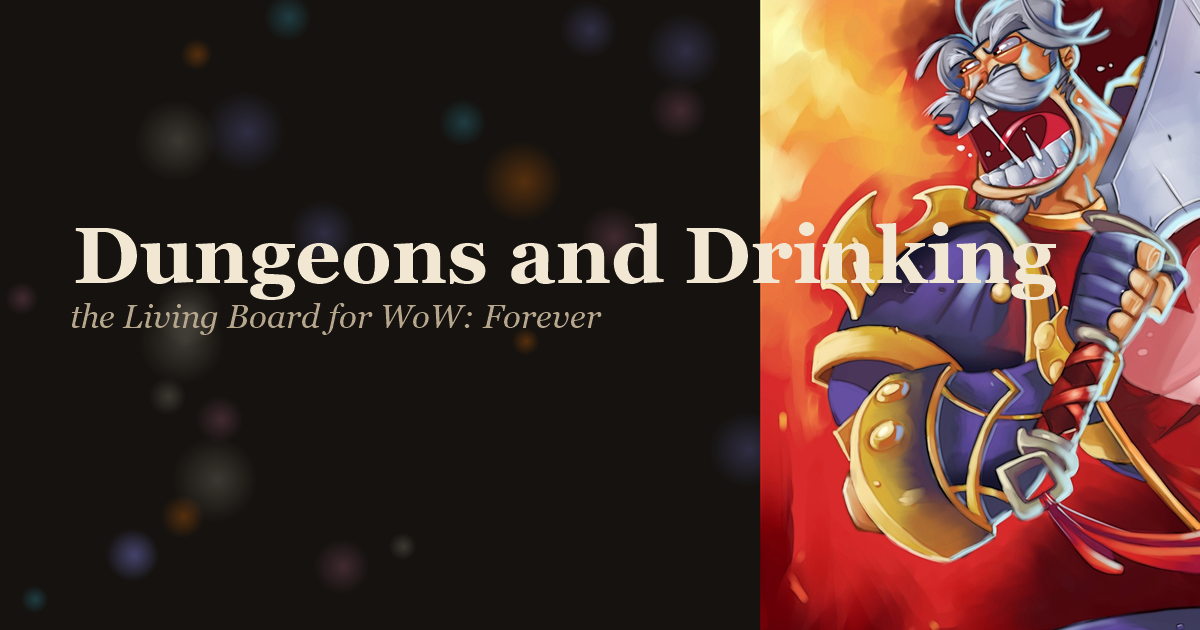
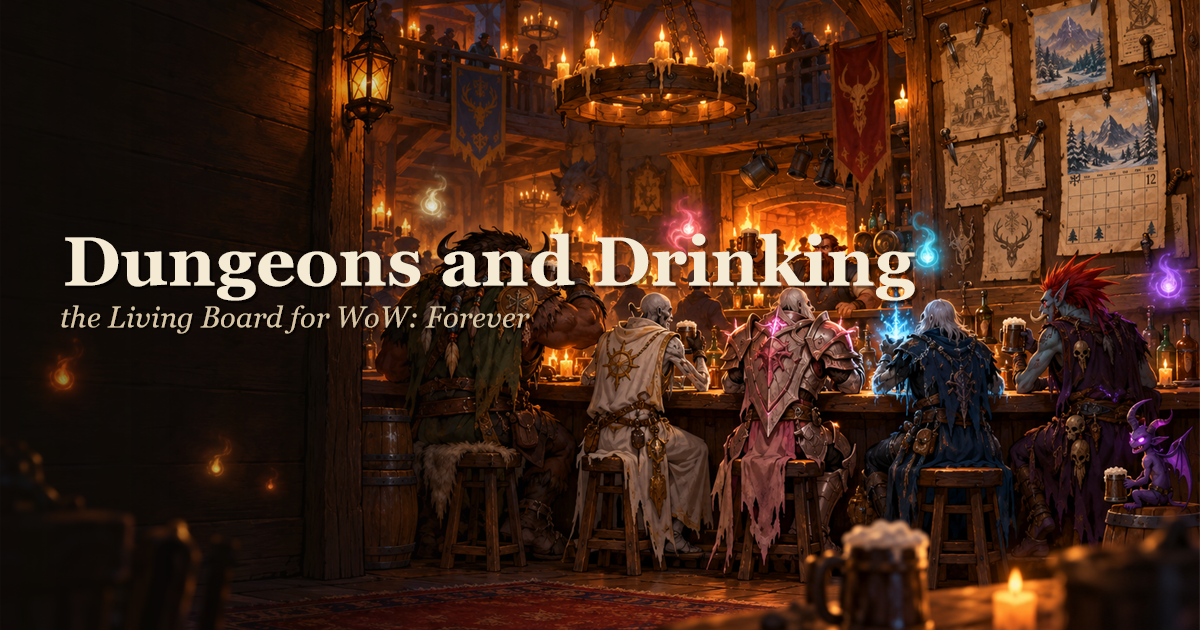
Board update 2026-10-26T23:40:26.505Z

diff --git a/index.html b/index.html
@@ -19,6 +19,7 @@
 <body>
 <title>Dungeons and Drinking Board</title>
 <meta name="claude:viewport-fit-sides" content="cover">
+<link rel="preload" as="image" href="img/tavern-hero.jpg" fetchpriority="high">
 <style>
 /* Fonts are self-hosted (fonts/, SIL OFL, latin subsets from Google Fonts) so the page loads no third-party host. */
 @font-face { font-family: "Alegreya"; font-style: normal; font-weight: 400 700; font-display: swap; src: url("fonts/alegreya-latin.woff2") format("woff2"); unicode-range: U+0000-00FF, U+0131, U+0152-0153, U+02BB-02BC, U+02C6, U+02DA, U+02DC, U+0304, U+0308, U+0329, U+2000-206F, U+20AC, U+2122, U+2191, U+2193, U+2212, U+2215, U+FEFF, U+FFFD; }
@@ -70,6 +71,11 @@
   --hover-tint: rgba(255, 255, 255, 0.06);
   --rule: rgba(74, 50, 32, 0.8);
   --buff-bg: rgba(0, 0, 0, 0.18);
+  --shade-deep: rgba(18, 12, 8, 0.94);
+  --shade-mid: rgba(18, 12, 8, 0.62);
+  --shade-light: rgba(18, 12, 8, 0.22);
+  --shade-none: rgba(18, 12, 8, 0);
+  --mask-solid: #000;
   --font-display: "Grenze Gotisch", "Palatino Linotype", Georgia, serif;
   --font-body: "Alegreya", Georgia, "Times New Roman", serif;
   --font-ui: "Alegreya Sans SC", "Trebuchet MS", "Segoe UI", system-ui, sans-serif;
@@ -96,9 +102,25 @@ body {
   line-height: 1.55;
   overflow-x: hidden;
 }
-#wisps { position: fixed; inset: 0; width: 100%; height: 100%; pointer-events: none; z-index: 0; }
+/* Layers: the tavern painting (z 0) sits under the wisps canvas (z 1), which sits under the content (z 2). */
+.hero-art { position: absolute; top: 0; left: 0; right: 0; height: 44rem; z-index: 0; overflow: hidden; pointer-events: none; }
+.hero-art img { width: 100%; height: 100%; object-fit: cover; object-position: 62% 38%; display: block; max-width: none; }
+.hero-art::after { content: ""; position: absolute; inset: 0; background:
+  linear-gradient(90deg, var(--shade-deep) 0%, var(--shade-mid) 34%, var(--shade-light) 62%, var(--shade-light) 100%),
+  linear-gradient(180deg, var(--shade-none) 55%, var(--oak-0) 100%); }
+.hero-art.gate-mode::after { background: linear-gradient(180deg, var(--shade-mid), var(--shade-deep) 85%, var(--oak-0)); }
+@media (max-width: 700px) {
+  .hero-art img { object-position: 12% 40%; }
+  .hero-art::after { background: linear-gradient(180deg, var(--shade-mid) 0%, var(--shade-mid) 60%, var(--oak-0) 100%); }
+}
+#wisps { position: fixed; inset: 0; width: 100%; height: 100%; pointer-events: none; z-index: 1; }
+.plate-zone { position: relative; isolation: isolate; display: grid; gap: 40px; padding-block: 8px; }
+.plate-art { position: absolute; inset: -24px calc(-1 * max(16px, env(safe-area-inset-left, 0px))); z-index: -1; overflow: hidden; pointer-events: none;
+  -webkit-mask-image: linear-gradient(180deg, transparent, var(--mask-solid) 12%, var(--mask-solid) 88%, transparent); mask-image: linear-gradient(180deg, transparent, var(--mask-solid) 12%, var(--mask-solid) 88%, transparent); }
+.plate-art img { width: 100%; height: 100%; object-fit: cover; object-position: center 40%; opacity: 0.2; display: block; max-width: none; }
+@media print { #wisps, .hero-art, .plate-art { display: none !important; } }
 .wrap {
-  position: relative; z-index: 1;
+  position: relative; z-index: 2;
   max-width: 1160px; margin: 0 auto;
   padding-left: max(16px, env(safe-area-inset-left, 0px));
   padding-right: max(16px, env(safe-area-inset-right, 0px));
@@ -267,7 +289,7 @@ section { display: grid; gap: 18px; min-width: 0; align-content: start; }
 .writein input, .signup select { font: inherit; font-size: 0.95rem; padding: 6px 10px; border: 1px solid var(--ink-soft); border-radius: 4px; background: var(--parchment-2); color: var(--ink); min-width: 0; flex: 1 1 12rem; max-width: 100%; }
 .picker-note { font-size: 0.88rem; color: var(--ink-soft); }
 [hidden] { display: none !important; }
-.gate { position: relative; z-index: 1; min-height: 70vh; display: grid; place-items: center; padding-left: max(16px, env(safe-area-inset-left, 0px)); padding-right: max(16px, env(safe-area-inset-right, 0px)); padding-block: 40px; }
+.gate { position: relative; z-index: 2; min-height: 90vh; display: grid; place-items: center; padding-left: max(16px, env(safe-area-inset-left, 0px)); padding-right: max(16px, env(safe-area-inset-right, 0px)); padding-block: 40px; }
 .gate-card { display: grid; gap: 12px; text-align: center; max-width: 30rem; padding: 28px 24px; border: 1px solid var(--grain); border-radius: var(--radius); background: var(--glass); }
 .gate-card h1 { font-size: var(--step-3); color: var(--parchment); }
 .gate-card p { color: var(--text-dim); font-size: var(--step-1); }
@@ -299,6 +321,7 @@ footer code { font-family: var(--font-ui); font-size: 0.85rem; overflow-wrap: an
 }
 </style>
 
+<div class="hero-art gate-mode" id="hero-art" aria-hidden="true"><img src="img/tavern-hero.jpg" alt="" width="1672" height="941" loading="eager" fetchpriority="high" decoding="async"></div>
 <canvas id="wisps" aria-hidden="true"></canvas>
 <div class="gate" id="gate">
   <div class="gate-card">
@@ -324,6 +347,8 @@ footer code { font-family: var(--font-ui); font-size: 0.85rem; overflow-wrap: an
     </div>
   </header>
 
+  <div class="plate-zone">
+  <div class="plate-art" aria-hidden="true"><img src="img/tavern-plate.jpg" alt="" width="1672" height="941" loading="lazy" decoding="async"></div>
   <section aria-labelledby="h-five">
     <div class="section-head">
       <h2 id="h-five">The five</h2>
@@ -340,6 +365,8 @@ footer code { font-family: var(--font-ui); font-size: 0.85rem; overflow-wrap: an
     <div class="map-box" id="map"></div>
     <p class="map-caption" id="map-caption"></p>
   </section>
+
+  </div>
 
   <section aria-labelledby="h-races">
     <div class="section-head">
@@ -780,6 +807,7 @@ function renderFooter() {
   f.append(
     h("p", {}, "Generated from the group's own records on ", h("span", { class: "num", text: `${stamp.replace("T", " ").slice(0, 16)} UTC` }), "."),
     h("p", { text: `Read from ${D.signups ? "five" : "four"} places: the Party Board, the game's client tables (build ${D.client.build.split(".").pop()}), Blizzard's dates, ${D.signups ? "the bot's log, and the Discord sign-up card" : "and the bot's log"}.` }),
+    h("p", { text: "Tavern paintings generated on 2026-10-26 for this board." }),
     h("p", { text: "Spell numbers are the game's own values at the level cap and can move with beta hotfixes. A \"board\" tag means written on the group's cards; \"chat\" means said in Discord and noted down." }));
 }
 
@@ -1053,10 +1081,24 @@ function startWisps() {
   run();
 }
 
+/* ---------- painting layer height ---------- */
+function syncArt() {
+  const art = $("#hero-art"); if (!art) return;
+  const onGate = !$("#gate").hidden;
+  const target = onGate ? $("#gate") : $("#top");
+  art.classList.toggle("gate-mode", onGate);
+  const r = target.getBoundingClientRect();
+  art.style.height = `${Math.ceil(r.bottom + window.scrollY + (onGate ? 0 : 48))}px`;
+}
+if (window.ResizeObserver) { const ro = new ResizeObserver(syncArt); ro.observe($("#gate")); ro.observe($("#top")); }
+addEventListener("resize", syncArt, { passive: true });
+syncArt();
+
 /* ---------- boot ---------- */
 async function boot(mode, sdk) {
   $("#gate").hidden = true;
   $("#board").hidden = false;
+  syncArt();
   try {
     const names = ["party", "timeline", "client", "stats"];
     const got = await Promise.all(names.map((n) => fetch(`data/${n}.json`, { cache: "no-store" }).then((r) => { if (!r.ok) throw new Error(`data/${n}.json answered ${r.status}`); return r.json(); })));
